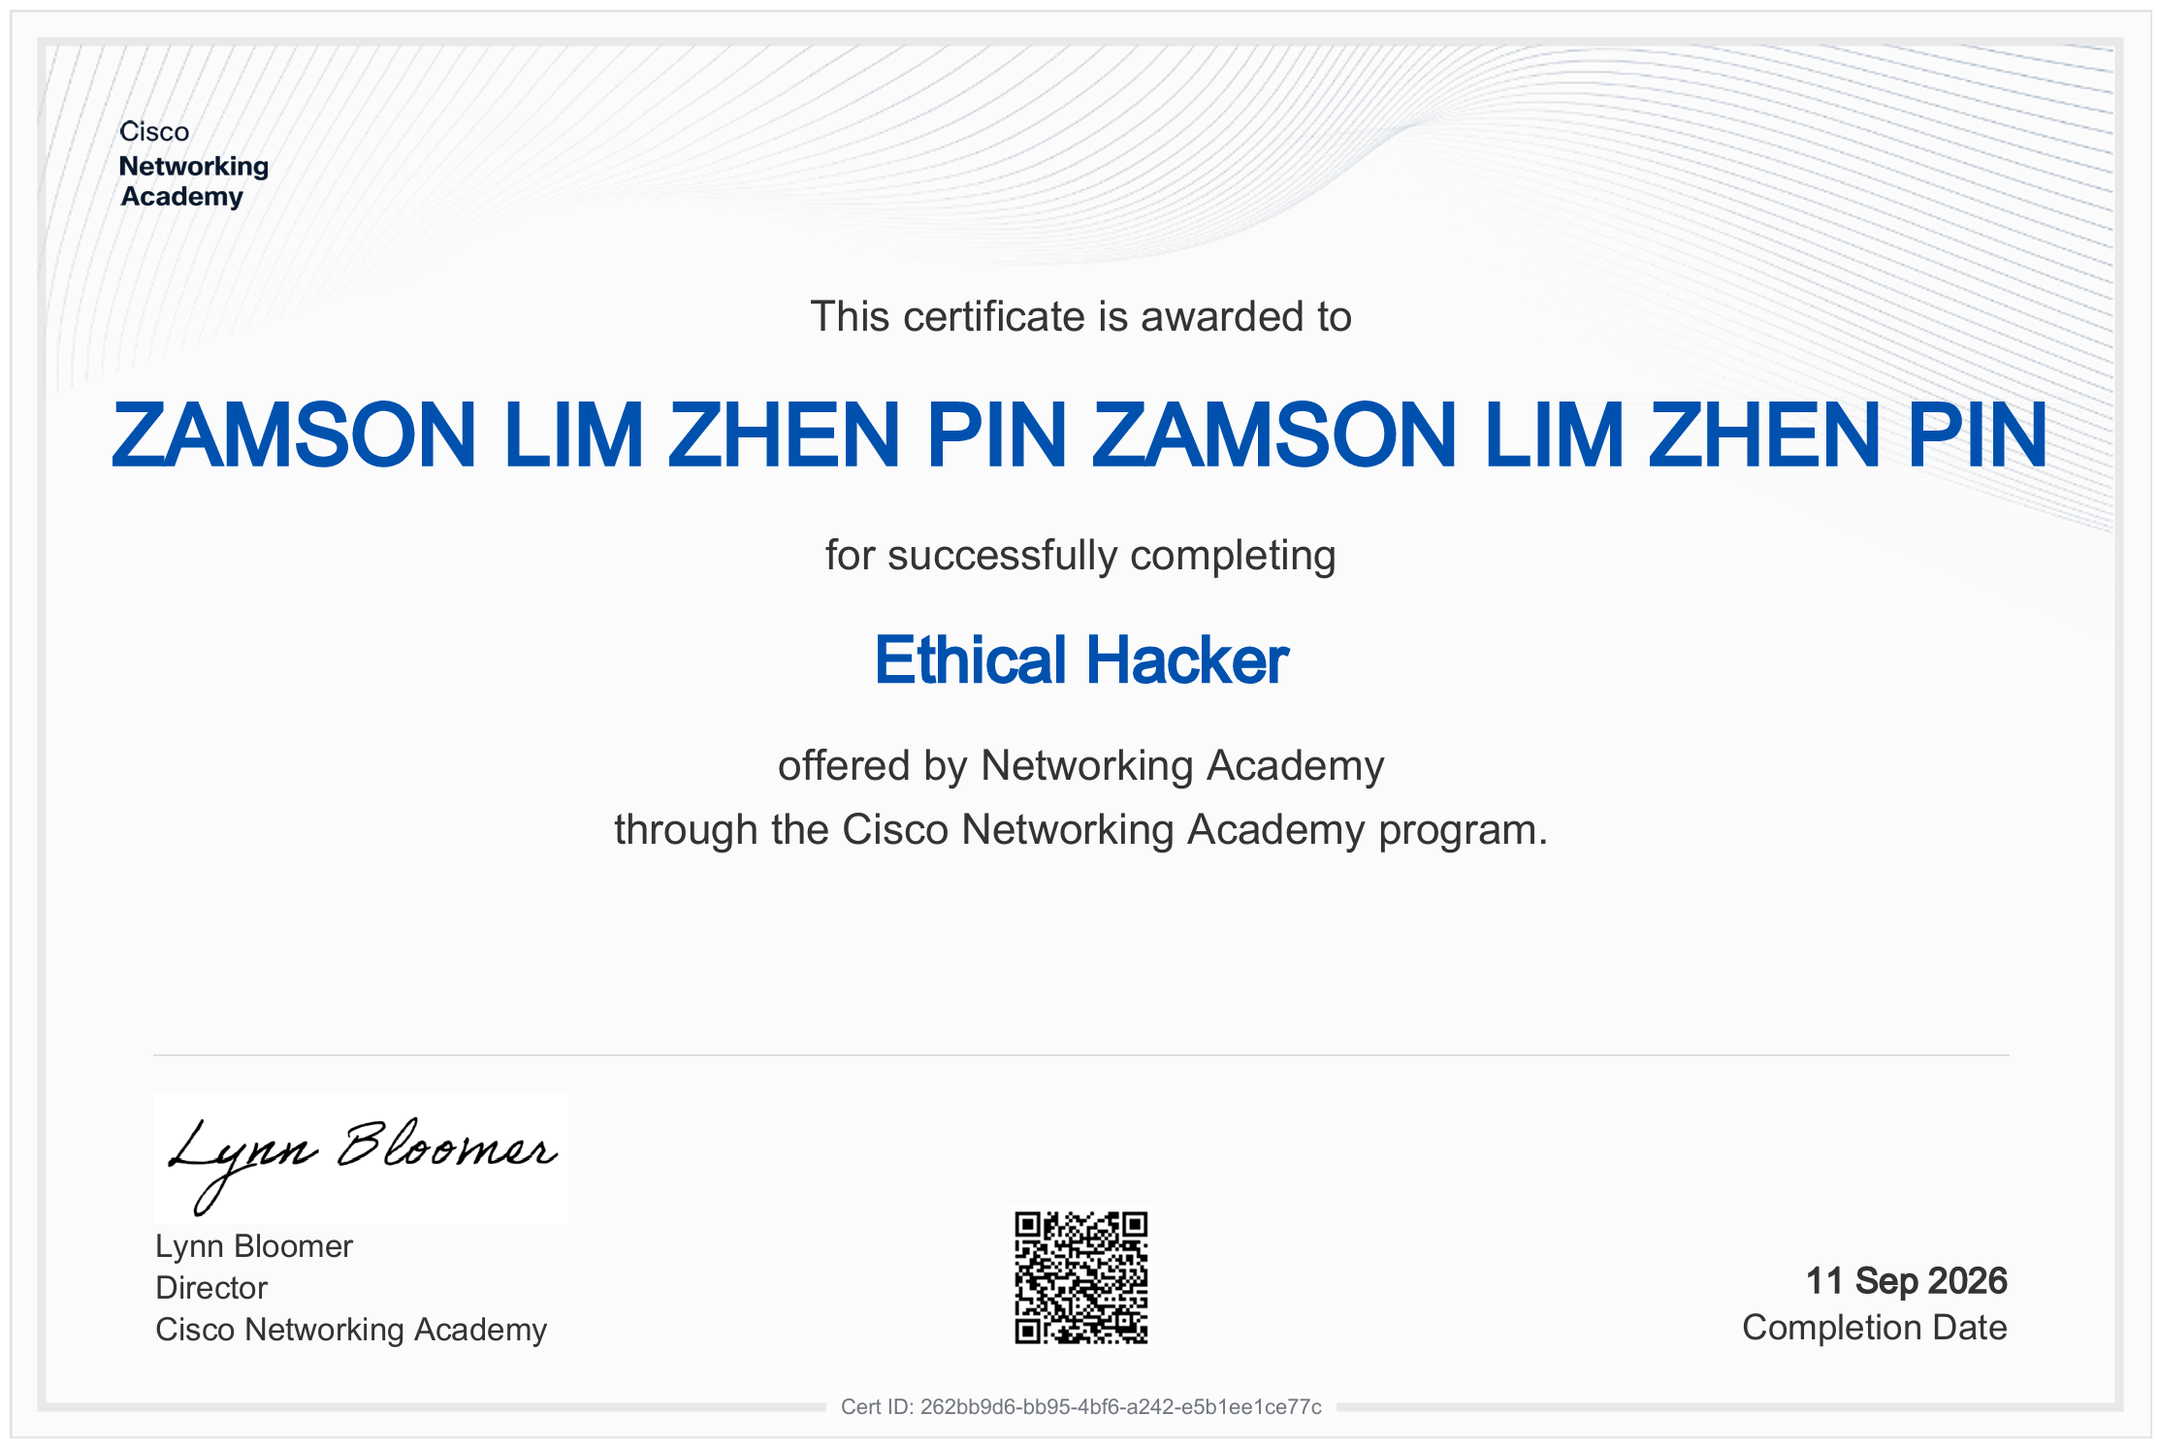
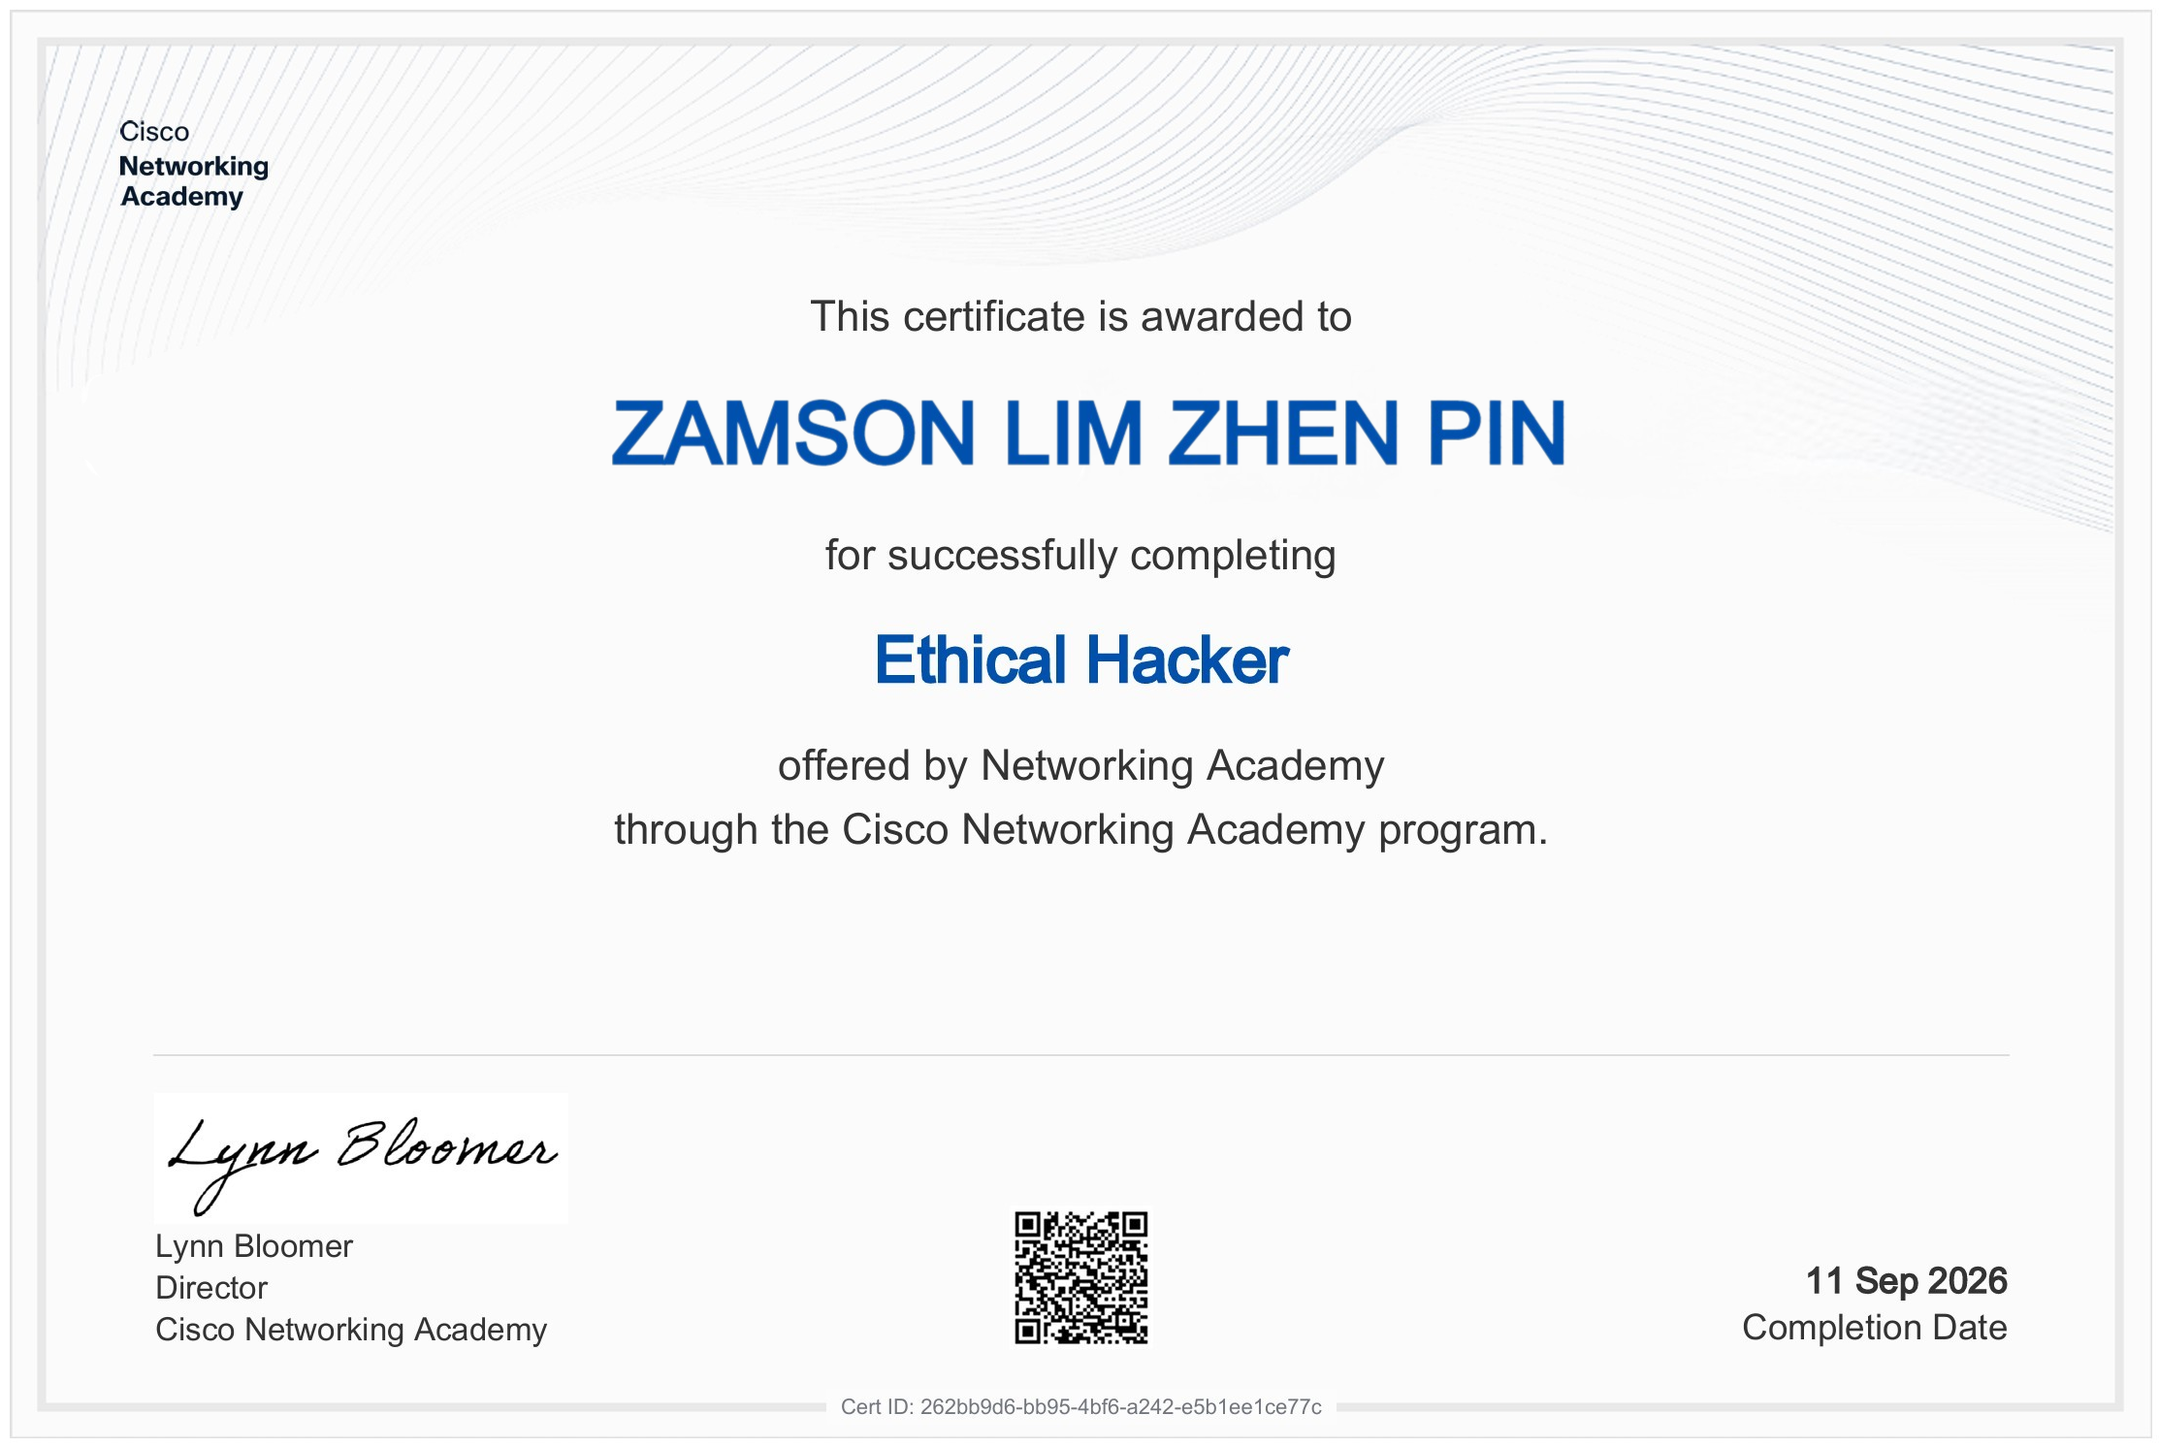
Add the Red Hat RH124 and RH134 certificates
Replaces the Cisco Ethical Hacker certificate with the corrected download
and adds the two Red Hat System Administration certificates of attendance,
with Credly verify links. Skill chips now quote the page word for word and
the beacon rule no longer clips at desktop width.

Changed region(s): [[0.031, 0.2775, 0.9609, 0.3391], [0.434, 0.4316, 0.496, 0.4625], [0.558, 0.4316, 0.5889, 0.4625]]

diff --git a/index.html b/index.html
@@ -432,7 +432,7 @@
     <div class="wrap">
       <header class="sec-head">
         <h2>What I can do</h2>
-        <p class="sub">Tools and skills I have used on real systems, not just read about. Skills with a dot open the part of this page where I used them.</p>
+        <p class="sub">Tools and skills I have used on real systems, not just read about. Skills with a dot show the line on this page where I used them, with a link to it.</p>
       </header>
 
       <div class="caps">
@@ -444,7 +444,7 @@
           <div class="cap-body">
             <ul class="chips">
               <li><button class="chip ev" type="button" data-to="#purple" data-q="I built my own command-and-control framework in Python rather than picking one off the shelf, so I know exactly what it does on the wire and on the host.">Custom C2 development</button></li>
-              <li><button class="chip ev" type="button" data-to="#samples" data-q="Written by me, to test detections. Isolated VMs, written authorization, never a live sample.">Malware development for testing</button></li>
+              <li><button class="chip ev" type="button" data-to="#samples" data-q="Each one follows the same path: I run it as the attacker, watch what the sensors see, and turn the gap into a rule.">Malware development for testing</button></li>
               <li><span class="chip">Kali Purple</span></li>
               <li><button class="chip ev" type="button" data-to="#purple-rule" data-q="I mapped it to the ATT&amp;CK techniques for a command-and-control channel over a web protocol, so it lines up with the rest of the coverage.">MITRE ATT&amp;CK</button></li>
               <li><span class="chip">Sandboxed analysis</span></li>
@@ -463,7 +463,7 @@
           </div>
           <div class="cap-body">
             <ul class="chips">
-              <li><button class="chip ev" type="button" data-to="#flow" data-q="Most of the work was getting usable data in: Wazuh and OpenSearch on a Proxmox host I set up in the office, the firewall and wireless over syslog, agents on the Windows machines, and SPAN feeds from the core and access switches.">Wazuh</button></li>
+              <li><button class="chip ev" type="button" data-to="#soc" data-q="Most of the work was getting usable data in: Wazuh and OpenSearch on a Proxmox host I set up in the office, the firewall and wireless over syslog, agents on the Windows machines, and SPAN feeds from the core and access switches so the sensor sees the network instead of a slice of it.">Wazuh</button></li>
               <li><button class="chip ev" type="button" data-to="#soc" data-q="Recovered a full outage after archive logging filled the disk and every index went read-only, then set retention policies so it couldn&rsquo;t happen again.">OpenSearch</button></li>
               <li><button class="chip ev" type="button" data-to="#soc" data-q="Rewrote the Zeek decoders so each log type is identified by the fields only it has, and added detections for DGA bursts, DNS tunnelling, exfiltration and inbound scans.">Zeek</button></li>
               <li><button class="chip ev" type="button" data-to="#purple-rule" data-q="One rule notices a single outbound connection to the tunnel edge. A second says that six of them in a minute from the same machine is a pattern, not a coincidence.">Custom decoders and rules</button></li>
@@ -504,8 +504,8 @@
           <div class="cap-body">
             <ul class="chips">
               <li><span class="chip">FortiGate</span></li><li><span class="chip">Aruba switching and wireless</span></li>
-              <li><button class="chip ev" type="button" data-to="#flow" data-q="SPAN feeds from the core and access switches so the sensor sees the network instead of a slice of it.">Traffic mirroring and SPAN</button></li>
-              <li><button class="chip ev" type="button" data-to="#flow" data-q="Wazuh and OpenSearch on a Proxmox host I set up in the office.">Proxmox</button></li>
+              <li><button class="chip ev" type="button" data-to="#soc" data-q="SPAN feeds from the core and access switches so the sensor sees the network instead of a slice of it.">Traffic mirroring and SPAN</button></li>
+              <li><button class="chip ev" type="button" data-to="#soc" data-q="Wazuh and OpenSearch on a Proxmox host I set up in the office">Proxmox</button></li>
               <li><span class="chip">Linux</span></li><li><span class="chip">Windows Server</span></li>
               <li><button class="chip ev" type="button" data-to="#soc" data-q="Wazuh agents to more than 80 domain-joined Windows machines through Group Policy, with an installer that was safe to run twice.">Active Directory</button></li>
               <li><button class="chip ev" type="button" data-to="#soc" data-q="Wazuh agents to more than 80 domain-joined Windows machines through Group Policy, with an installer that was safe to run twice.">Group Policy</button></li>
@@ -524,7 +524,7 @@
             <ul class="chips">
               <li><button class="chip ev" type="button" data-to="#purple" data-q="I built my own command-and-control framework in Python rather than picking one off the shelf, so I know exactly what it does on the wire and on the host.">Python</button></li>
               <li><button class="chip ev" type="button" data-to="#case-ransomware" data-q="A Rust sample that behaves like ransomware, hard-guarded so it could only ever write inside one canary folder.">Rust</button></li>
-              <li><button class="chip ev" type="button" data-to="#case-c2client" data-q="A C2 client that checks in on a fixed interval, talking back to the listener in my own framework.">C++</button></li>
+              <li><button class="chip ev" type="button" data-to="#case-c2client" data-q="A C2 client that checks in on a fixed interval, talking back to the listener in my own framework, reached through a tunnelling service so the traffic looked ordinary from outside.">C++</button></li>
               <li><span class="chip">C#</span></li><li><span class="chip">Java</span></li><li><span class="chip">JavaScript</span></li><li><span class="chip">Bash</span></li><li><span class="chip">PowerShell</span></li>
             </ul>
             <div class="ev-panel" hidden><p class="ev-q"></p><a class="ev-go" href="#">Show me where</a></div>
@@ -533,13 +533,15 @@
 
         <section class="cap" style="--c:var(--line-3)">
           <div class="cap-head">
-            <h3>Certifications</h3>
-            <p>Both completed during the degree, both hands-on.</p>
+            <h3>Certificates</h3>
+            <p>All completed during the degree.</p>
           </div>
           <div class="cap-body">
             <ul class="chips">
-              <li><button class="chip ev chip-cert" type="button" data-to="#cert" data-q="Cisco Ethical Hacker, Cisco Networking Academy, September 2026."><img src="img/badge-ethical-hacker.png" width="22" height="22" loading="lazy" decoding="async" alt="" />Cisco Ethical Hacker</button></li>
-              <li><button class="chip ev" type="button" data-to="#about" data-q="ELITE TecForte SOC Programme, certificate of completion, March 2026.">ELITE TecForte SOC Programme</button></li>
+              <li><button class="chip ev chip-cert" type="button" data-to="#cert" data-q="My Cisco Ethical Hacker certificate from the Cisco Networking Academy, completed 11 September 2026."><img src="img/badge-ethical-hacker.png" width="22" height="22" loading="lazy" decoding="async" alt="" />Cisco Ethical Hacker</button></li>
+              <li><span class="chip">ELITE TecForte SOC Programme</span></li>
+              <li><button class="chip ev" type="button" data-to="#certs" data-q="Certificates of attendance for RH124 and RH134, 40 credit hours each.">Red Hat System Administration I (RH124)</button></li>
+              <li><button class="chip ev" type="button" data-to="#certs" data-q="Certificates of attendance for RH124 and RH134, 40 credit hours each.">Red Hat System Administration II (RH134)</button></li>
             </ul>
             <div class="ev-panel" hidden><p class="ev-q"></p><a class="ev-go" href="#">Show me where</a></div>
           </div>
@@ -621,12 +623,26 @@
               from people who have done this at a bigger scale.
             </p>
           </div>
-          <button class="shot shot-cert" id="cert" type="button" data-full="img/cert-ethical-hacker-full.png" data-w="2226" data-h="1492"
-                  data-caption="My Cisco Ethical Hacker certificate from the Cisco Networking Academy, completed 11 September 2026.">
-            <img src="img/cert-ethical-hacker-thumb.jpg" width="760" height="509" loading="lazy" decoding="async"
-                 alt="Cisco Networking Academy certificate of completion for Ethical Hacker, awarded to Zamson Lim." />
-            <span class="shot-cap"><span>Cisco Ethical Hacker certificate</span><span class="shot-open">View full size</span></span>
-          </button>
+          <div class="certs" id="certs">
+            <button class="shot shot-cert" id="cert" type="button" data-full="img/cert-ethical-hacker-full.png" data-w="2226" data-h="1492"
+                    data-caption="My Cisco Ethical Hacker certificate from the Cisco Networking Academy, completed 11 September 2026.">
+              <img src="img/cert-ethical-hacker-thumb.jpg" width="760" height="509" loading="lazy" decoding="async"
+                   alt="Cisco Networking Academy certificate of completion for Ethical Hacker, awarded to Zamson Lim Zhen Pin." />
+              <span class="shot-cap"><span>Cisco Ethical Hacker certificate</span><span class="shot-open">View full size</span></span>
+            </button>
+            <button class="shot" id="cert-rh124" type="button" data-full="img/redhat-rh124-full.png" data-w="1980" data-h="1530"
+                    data-caption="Red Hat certificate of attendance for Red Hat System Administration I (RH124), 29 December 2025, 40 credit hours.">
+              <img src="img/redhat-rh124-thumb.jpg" width="760" height="587" loading="lazy" decoding="async"
+                   alt="Red Hat certificate of attendance for Red Hat System Administration I (RH124), awarded to Zamson Lim." />
+              <span class="shot-cap"><span>Red Hat RH124</span><span class="shot-open">View full size</span></span>
+            </button>
+            <button class="shot" id="cert-rh134" type="button" data-full="img/redhat-rh134-full.png" data-w="1980" data-h="1530"
+                    data-caption="Red Hat certificate of attendance for Red Hat System Administration II (RH134), 29 December 2025, 40 credit hours.">
+              <img src="img/redhat-rh134-thumb.jpg" width="760" height="587" loading="lazy" decoding="async"
+                   alt="Red Hat certificate of attendance for Red Hat System Administration II (RH134), awarded to Zamson Lim." />
+              <span class="shot-cap"><span>Red Hat RH134</span><span class="shot-open">View full size</span></span>
+            </button>
+          </div>
         </div>
 
         <ol class="tl">
@@ -651,6 +667,13 @@
             <p class="when">March 2026</p>
             <h3>ELITE TecForte SOC Programme</h3>
             <p class="where">Certificate of completion</p>
+          </li>
+          <li>
+            <p class="when">December 2025</p>
+            <h3>Red Hat System Administration I and II</h3>
+            <p class="where">Red Hat</p>
+            <p class="tl-body">Certificates of attendance for RH124 and RH134, 40 credit hours each.</p>
+            <p class="tl-links"><a href="https://www.credly.com/badges/7cf5cf93-d526-4292-83e8-bc2370ca5267" target="_blank" rel="noreferrer">Verify RH124 on Credly</a><a href="https://www.credly.com/badges/de7ab529-d7da-4449-8a4f-2e252888b4da" target="_blank" rel="noreferrer">Verify RH134 on Credly</a></p>
           </li>
           <li>
             <p class="when">2024 to now</p>

diff --git a/style.css b/style.css
@@ -160,7 +160,7 @@ h3 { font-size: 1.32rem; font-weight: 700; letter-spacing: -0.015em; }
 .pt-row + .pt-row { margin-top: clamp(3rem, 6vw, 4.5rem); }
 .pt-c2 { grid-template-columns: minmax(0, 1.1fr) minmax(0, .9fr); }
 .pt-c2 .shot img { aspect-ratio: 7 / 4; object-fit: cover; object-position: 0 100%; }
-.pt-rule { align-items: stretch; grid-template-columns: minmax(0, 1fr) minmax(0, 1.04fr); }
+.pt-rule { align-items: stretch; grid-template-columns: minmax(0, .9fr) minmax(0, 1.15fr); }
 .rule-left { display: flex; flex-direction: column; gap: 1.6rem; }
 .aside { padding-left: .9rem; border-left: 2px solid var(--violet); color: var(--mute); }
 
@@ -347,7 +347,9 @@ button.chip[aria-expanded="true"] { border-color: var(--c); background: color-mi
 .about-left { display: flex; flex-direction: column; gap: 1.8rem; }
 .about-text p { font-size: 1.08rem; color: var(--text); max-width: 56ch; }
 .about-text p + p { margin-top: 1rem; }
-.shot-cert { max-width: 480px; }
+.certs { display: grid; grid-template-columns: repeat(2, minmax(0, 1fr)); gap: .9rem; max-width: 520px; }
+.certs .shot-cert { grid-column: 1 / -1; }
+.certs .shot:not(.shot-cert) .shot-cap { flex-direction: column; align-items: flex-start; gap: .2rem; }
 .tl { list-style: none; position: relative; padding-left: 1.9rem; }
 .tl::before { content: ''; position: absolute; left: 5px; top: .45rem; bottom: .6rem; width: 1px; background: var(--line-3); }
 .tl li { position: relative; padding-bottom: 1.6rem; }
@@ -359,7 +361,10 @@ button.chip[aria-expanded="true"] { border-color: var(--c); background: color-mi
 .tl h3 { margin-top: .2rem; font-size: 1.12rem; display: flex; align-items: center; gap: .55rem; }
 .tl-badge { width: 26px; height: 26px; border-radius: 5px; flex: none; }
 .where { margin-top: .15rem; font-size: .93rem; color: var(--violet); }
-.tl li > p:last-child:not(.where):not(.when) { margin-top: .5rem; font-size: .96rem; }
+.tl li > p:last-child:not(.where):not(.when):not(.tl-links), .tl .tl-body { margin-top: .5rem; font-size: .96rem; }
+.tl .tl-links { display: flex; flex-wrap: wrap; gap: .3rem 1.2rem; margin-top: .45rem; font-size: .9rem; }
+.tl-links a { color: var(--violet); font-weight: 600; text-decoration: underline; text-decoration-thickness: 1px; text-underline-offset: 3px; }
+.tl-links a:hover { color: var(--text); }
 
 /* contact */
 .contact { padding-block: clamp(4rem, 8vw, 6rem); border-top: 1px solid var(--line); }
@@ -390,6 +395,9 @@ button.chip[aria-expanded="true"] { border-color: var(--c); background: color-mi
 .lightbox.zoomed .lb-stage img { max-width: none; max-height: none; cursor: zoom-out; }
 
 /* responsive */
+@media (max-width: 1200px) {
+  .code { font-size: .74rem; }
+}
 @media (max-width: 1080px) {
   .nav { gap: 1.15rem; }
   .nav a { font-size: .9rem; }
@@ -418,7 +426,7 @@ button.chip[aria-expanded="true"] { border-color: var(--c); background: color-mi
   .flow-out::before { border-color: var(--violet) !important; }
   .cap { grid-template-columns: minmax(0, 1fr); }
   .contact-in { align-items: start; }
-  .shot-cert { max-width: 560px; }
+  .certs { max-width: 560px; }
 }
 @media (max-width: 720px) {
   .bullets { grid-template-columns: minmax(0, 1fr); }
